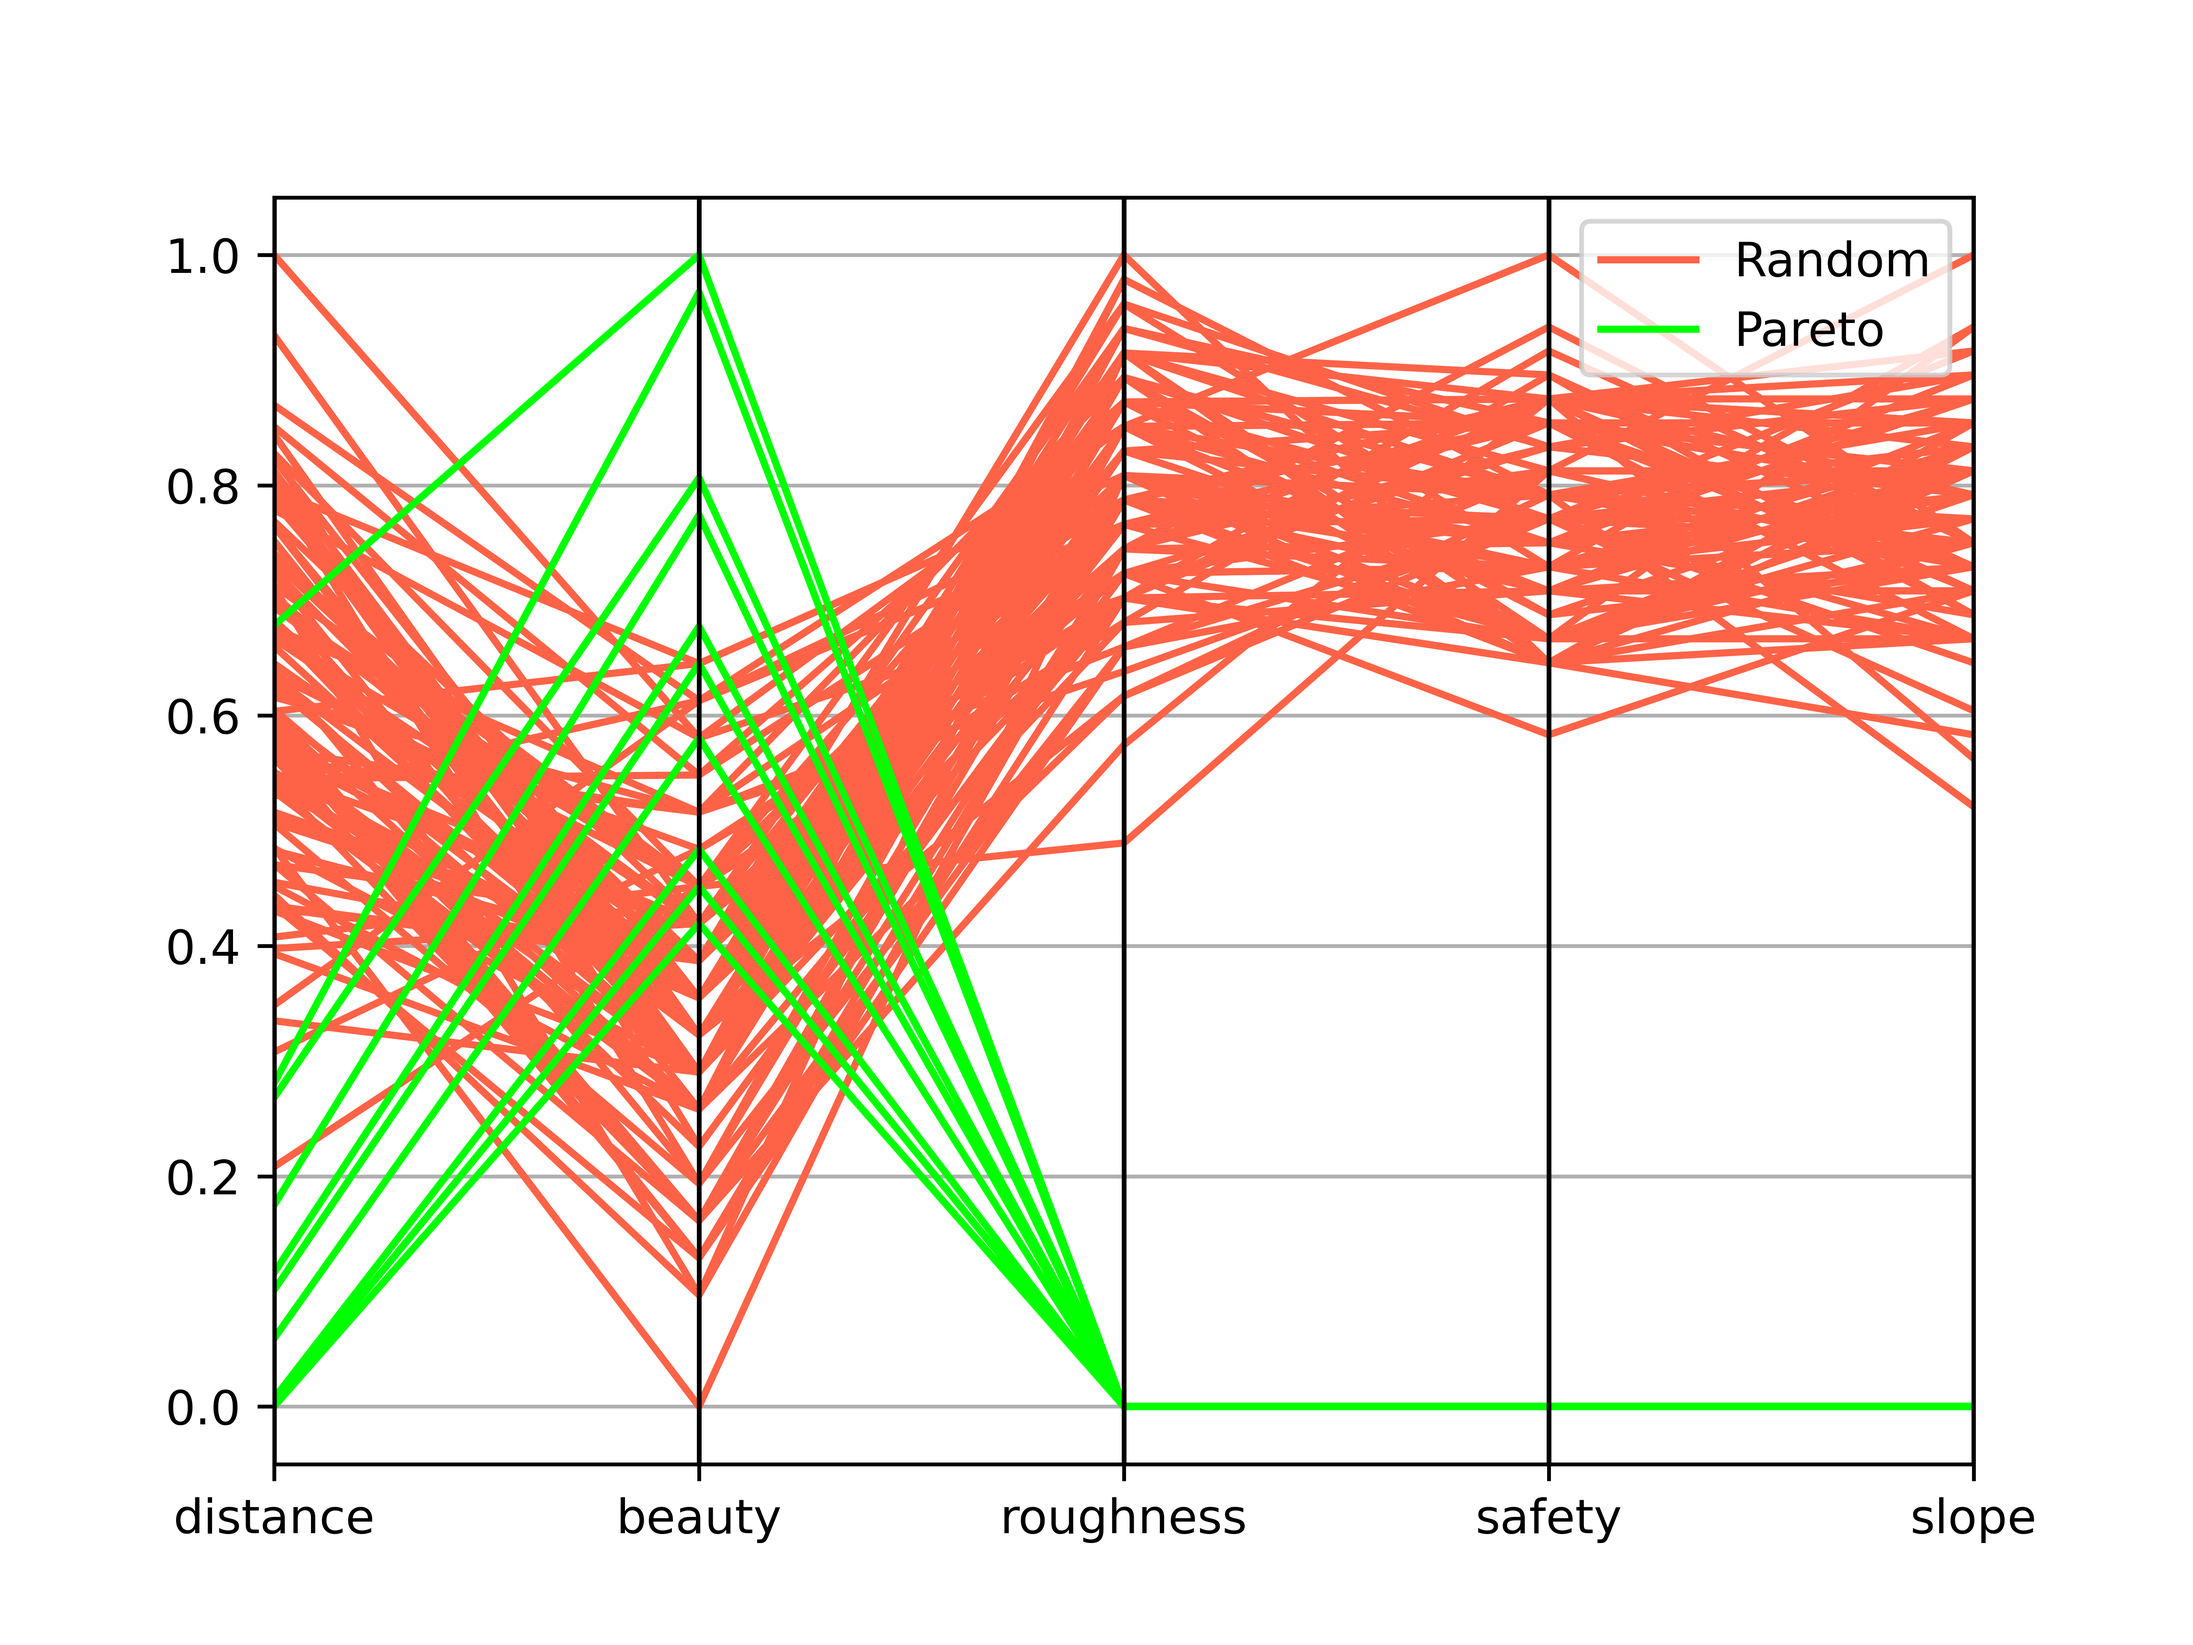
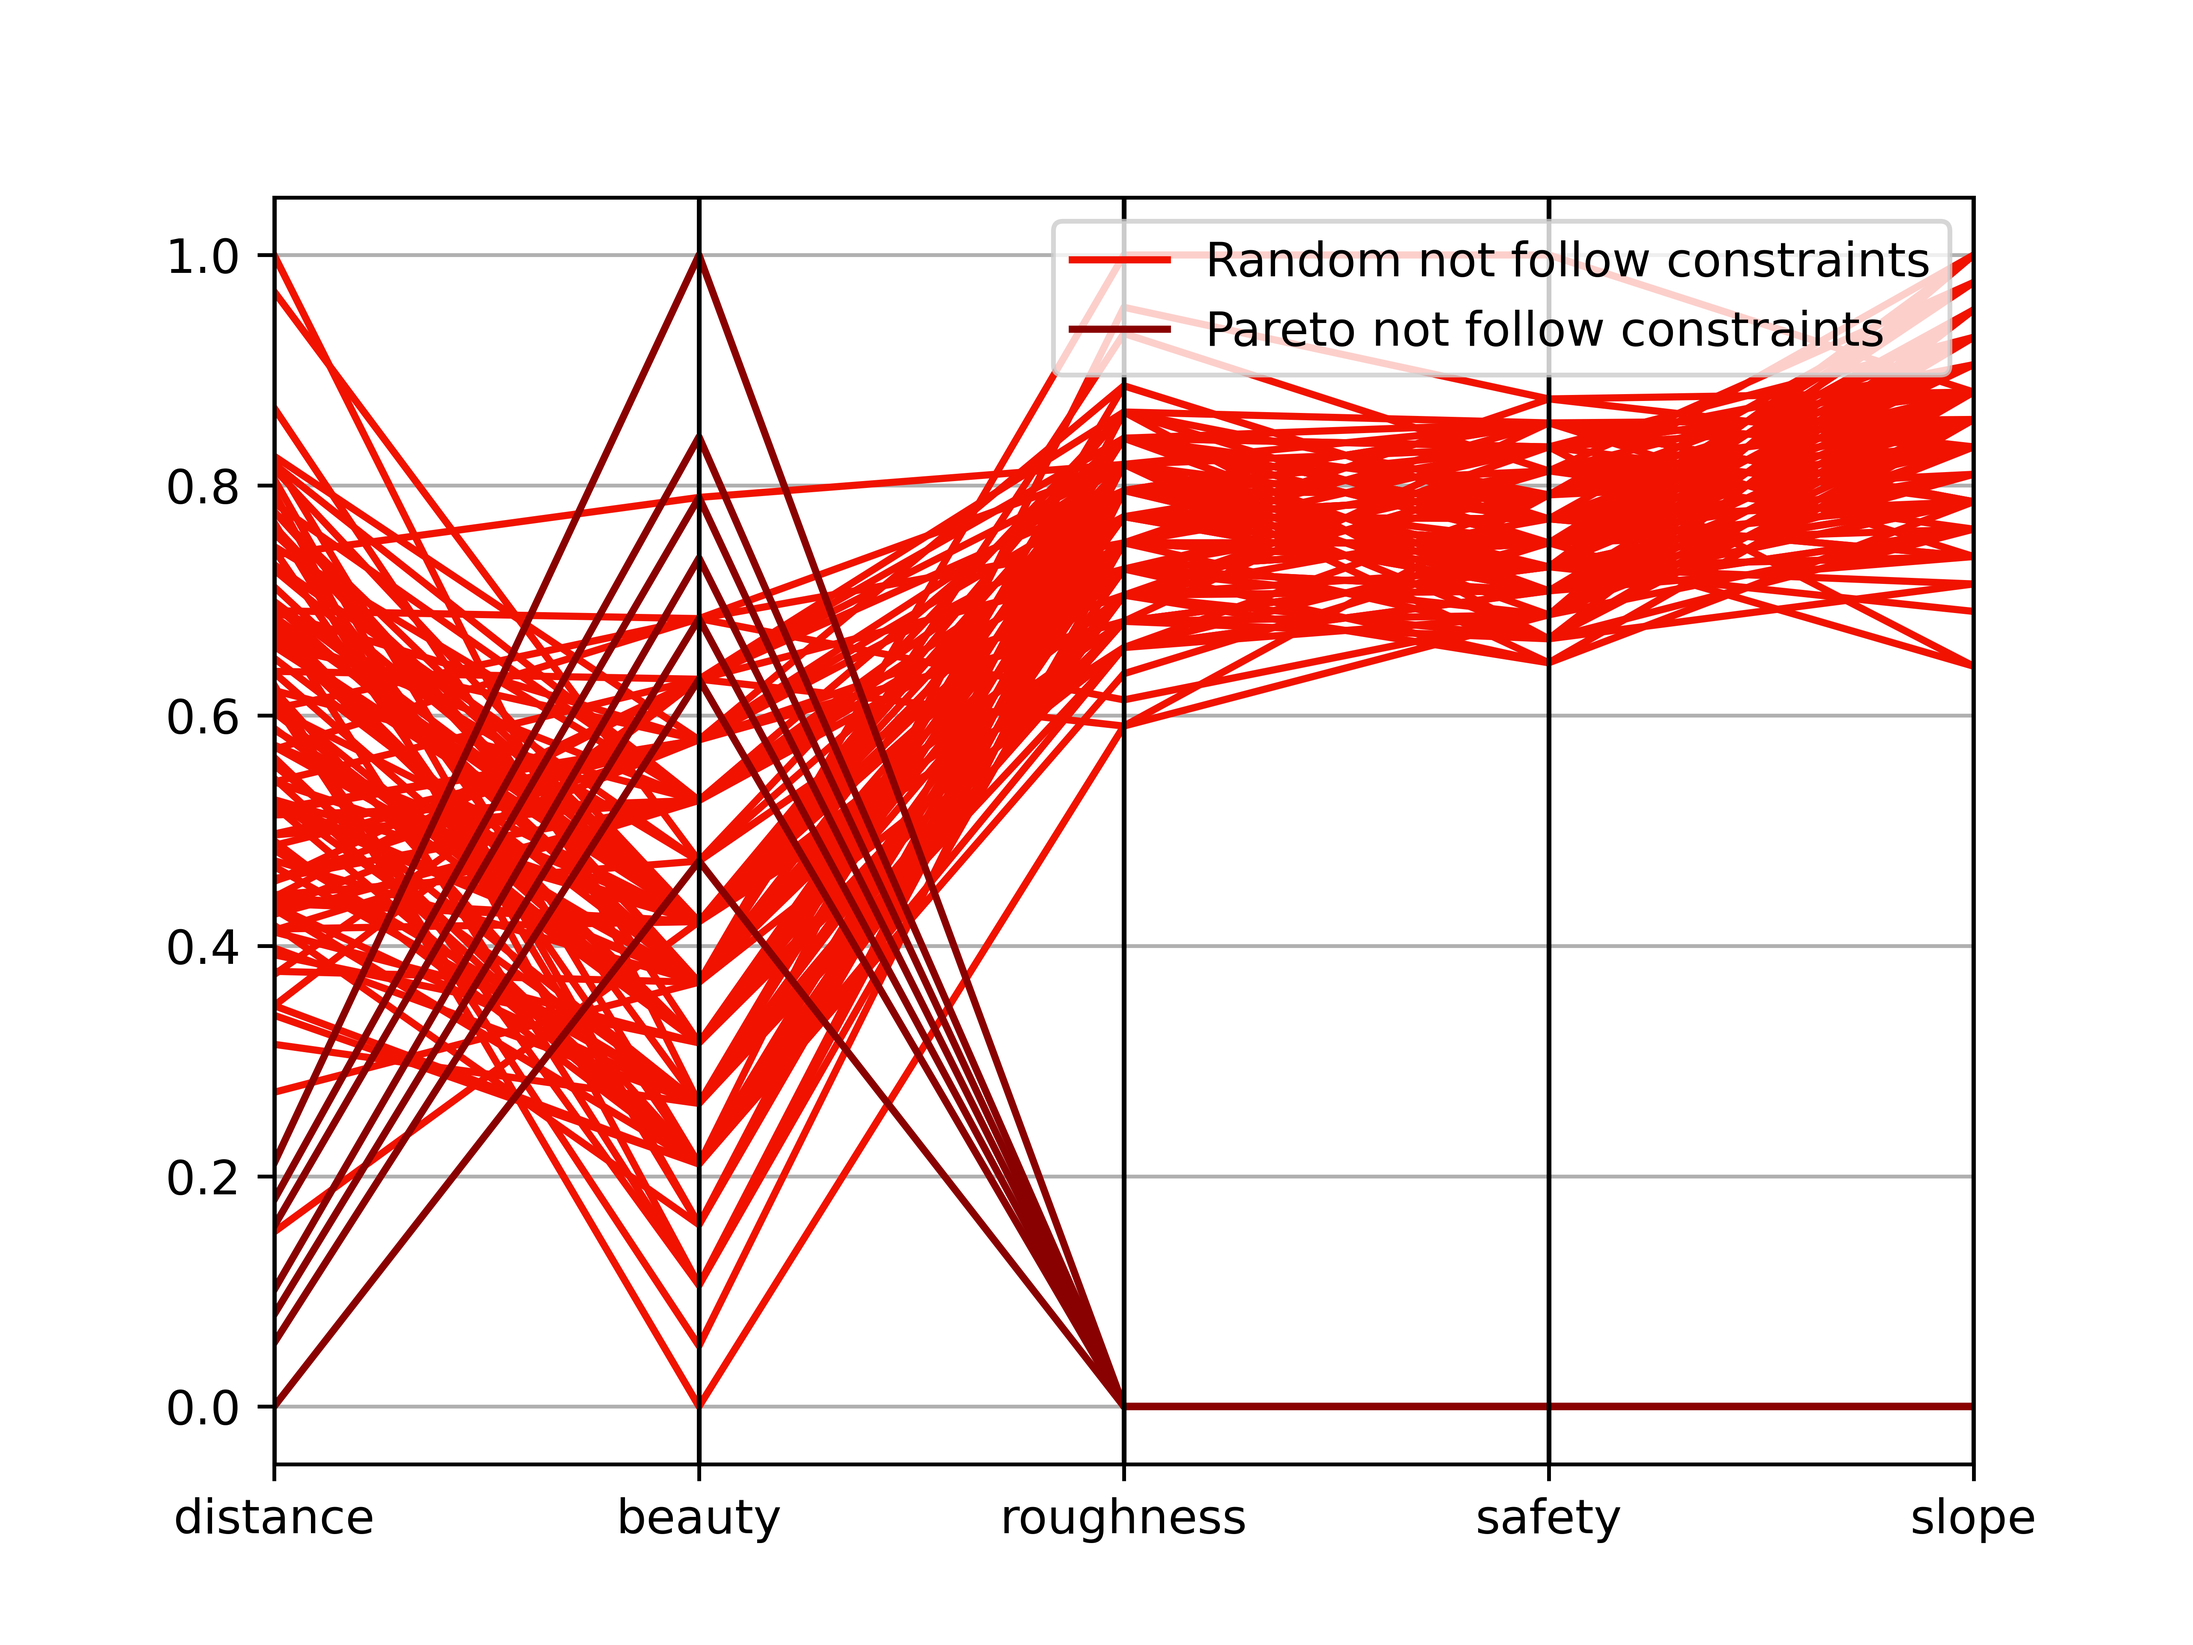
Following constraints

Changed region(s): [[0.125, 0.125, 0.9062, 0.875], [0.6875, 0.4375, 0.7188, 0.4688], [0.5312, 0.4688, 0.5625, 0.5]]

diff --git a/bicycle_routing.py b/bicycle_routing.py
@@ -28,7 +28,7 @@ def symmetric_matrix(matrix, integers = False):
     return matrix
 
 def check_constraints(bicycle_problem, path):
-    metrics = ["beauty", "roughness", "safety", "slope"]
+    metrics = ["distance", "beauty", "roughness", "safety", "slope"]
     all_good = np.array([True]*len(path))
     for i, m in enumerate(metrics):
         value = bicycle_problem.total_metric(path, m)
@@ -42,8 +42,8 @@ def check_constraints(bicycle_problem, path):
 # scenic beauty, roughness, safety, slope
 # we want to minimize total distance and maximize comfort 
 # (comfort is given by beauty, roughness, safety, slope)
-obj_weights = np.array([1, 1, 1, 1, 1])
-variable_count = 4 # Around 15 - 25 seems to be good enough
+obj_weights = np.array([1, 1, 0, 0, 0])
+variable_count = 15  # Around 15 - 25 seems to be good enough
 
 # Set constraint for objectives, [lower, upper]
 # If no constraint then set it to None
@@ -138,21 +138,24 @@ plt.savefig("plots/pfront_plot.png", dpi=800)
 def normalize(x):
     return (x - np.min(x)) / (np.max(x) - np.min(x))
 
-data_pareto = pd.DataFrame(obj, columns=["distance"]+list_obj)
-data_pareto_follow_constraints = data_pareto[data_pareto.apply(lambda x: check_constraints(bicycle_problem, [x[1:]]), axis=1)]
+data_pareto = pd.DataFrame(obj, columns=["distance"] + list_obj)
+data_pareto_follow_constraints = data_pareto[check_constraints(bicycle_problem, var)]
 data_pareto_follow_constraints["label"] = "Pareto follow constraints"
-data_pareto_not_follow_constraints = data_pareto[data_pareto.apply(lambda x: not check_constraints(bicycle_problem, [x[1:]]), axis=1)]
+data_pareto_not_follow_constraints = data_pareto[np.invert(check_constraints(bicycle_problem, var))]
 data_pareto_not_follow_constraints["label"] = "Pareto not follow constraints"
-data_random = pd.DataFrame(np.column_stack([random_distances, random_beauty, random_roughness,
-                                                               random_safety, random_slope]),
-                                              columns=["distance"] + list_obj)
-data_random["label"] = "Random"
-data = pd.concat([data_random, data_pareto_not_follow_constraints, data_pareto_follow_constraints])
+data_random = pd.DataFrame(np.column_stack([random_distances, random_beauty, random_roughness, random_safety, random_slope]),
+                           columns=["distance"] + list_obj)
+data_random_follow_constraints = data_random[check_constraints(bicycle_problem, random_samples)]
+data_random_follow_constraints["label"] = "Random follow constraints"
+data_random_not_follow_constraints = data_random[np.invert(check_constraints(bicycle_problem, random_samples))]
+data_random_not_follow_constraints["label"] = "Random not follow constraints"
+data = pd.concat([data_random_follow_constraints, data_random_not_follow_constraints,
+                  data_pareto_not_follow_constraints, data_pareto_follow_constraints])
 data.iloc[:, :-1] = data.iloc[:, :-1].apply(normalize)
 columns_to_check = [i for i, obj_weight in enumerate(obj_weights) if obj_weight != 0]
-interested_data = data.iloc[:, columns_to_check + [-1]]
+interested_data = data.iloc[:, columns_to_check + [-2]]
 
 plt.figure()
-pd.plotting.parallel_coordinates(data, 'label', color=["tomato", "green", "lime"])
+pd.plotting.parallel_coordinates(data, 'label', color=["#F11200", "#8A0101", "#109300", "#5DEC00"])
 plt.savefig("plots/parallel.png", dpi=800)
 plt.show()
